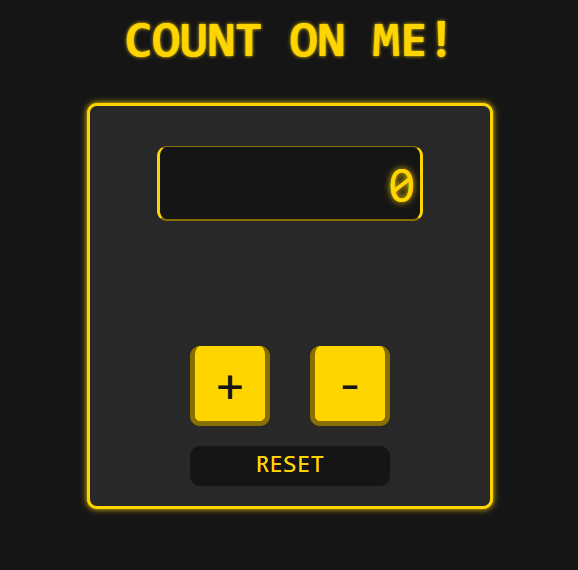
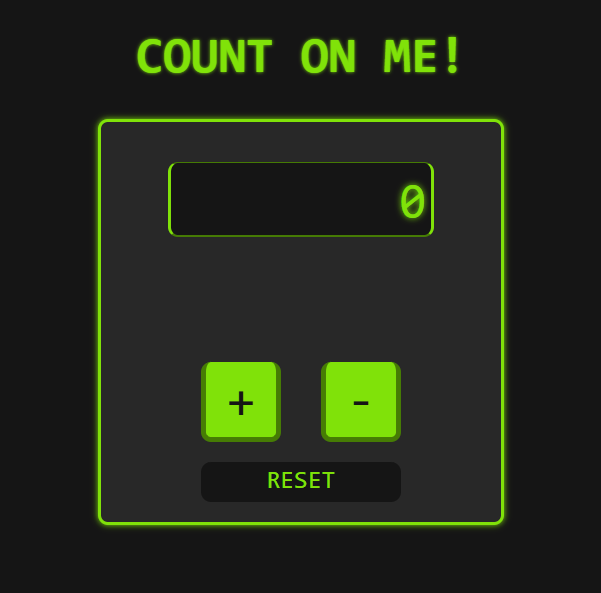
changed CSS accent color (and image accordingly)

diff --git a/assets/css/main.css b/assets/css/main.css
@@ -13,21 +13,21 @@ body {
   height: 20rem;
   width: 20rem;
   display: flex;
-  border: 3px solid #ffd500;
+  border: 3px solid #80e209;
   justify-content: center;
   align-items: flex-end;
   margin: auto;
   border-radius: 0.5rem;
   position: relative;
-  box-shadow: 0 0 5px #ffd500;
+  box-shadow: 0 0 5px #80e209;
 }
 
 .title {
   text-align: center;
   font-size: 2.5rem;
   text-transform: uppercase;
-  color: #ffd500;
-  text-shadow: 0 0 3px #ffd500;
+  color: #80e209;
+  text-shadow: 0 0 3px #80e209;
   margin-top: 5rem;
 }
 
@@ -36,16 +36,16 @@ body {
   width: 200px;
   height: 50px;
   background-color: #151515;
-  text-shadow: 0 0 5px #ffd500;
+  text-shadow: 0 0 5px #80e209;
   position: absolute;
   top: 2rem;
-  border: 3px solid #ffd500;
-  border-top: 1px solid #877000;
-  border-bottom: 2px solid #877000;
+  border: 3px solid #80e209;
+  border-top: 1px solid #467c04;
+  border-bottom: 2px solid #467c04;
   border-radius: 0.5rem;
   font-size: 2.4rem;
   text-align: right;
-  color: #ffd500;
+  color: #80e209;
   padding: 0.5rem 0.25rem;
   padding-bottom: 0;
 }
@@ -58,8 +58,8 @@ body {
   font-family: monospace;
   font-size: 2.5rem;
   color: #151515;
-  background-color: #ffd500;
-  border: 4px solid #877000;
+  background-color: #80e209;
+  border: 4px solid #467c04;
   border-radius: 0.5rem;
   border-top: none;
   transition: all 0.3s ease;
@@ -73,7 +73,7 @@ body {
   height: 2rem;
   width: 10rem;
   font-size: 1.25rem;
-  color: #ffd500;
+  color: #80e209;
   background-color: #151515;
   border: 4px solid #151515;
   border-top: none;
@@ -82,7 +82,7 @@ body {
 }
 
 button:hover {
-  box-shadow: 0 0 5px #ffd500;
+  box-shadow: 0 0 5px #80e209;
 }
 
 .pressed {
